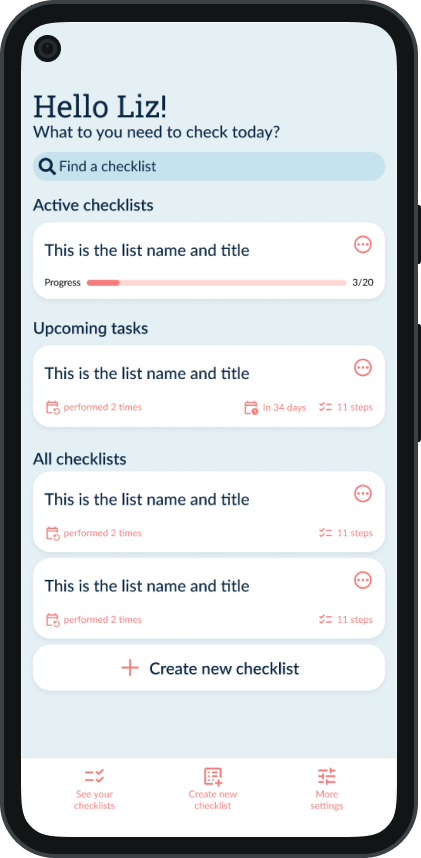
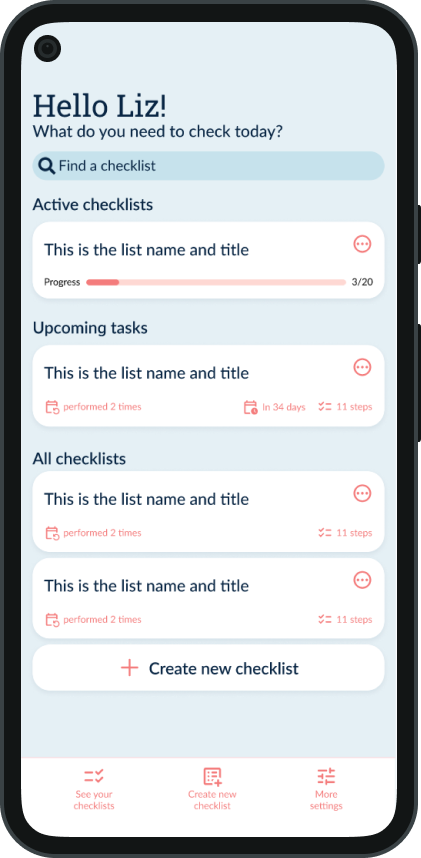
cleaned up navbar, fixed a few typos

diff --git a/index.html b/index.html
@@ -26,33 +26,37 @@
   </head>
   <body>
     <header>
-      <h2 class="logo"><a href="#greeting-card">Åsmund</a></h2>
-      <nav class="navbar">
-        <ul>
-          <li class="item"><a href="#about">About</a></li>
-          <li class="item"><a href="#projects">Projects</a></li>
-          <li class="item"><a href="#contact">Contact</a></li>
-        </ul>
-      </nav>
-      <div class="toggle">
-        <i class="fa-solid fa-layer-group"></i>
-        <label class="switch">
-          <input
-            type="checkbox"
-            id="toggleDusk"
-            onclick="toggleDusk()"
-            checked
-          />
-          <span class="slider"></span>
-        </label>
-        <i class="fa-solid fa-mountain-sun"></i>
+      <div class="header-flexcontainer1">
+        <h2 class="logo"><a href="#greeting-card">Åsmund</a></h2>
       </div>
-      <button
-        class="hamburger"
-        onclick="toggleMenu()"
-      >
-        <i class="fa fa-bars"></i>
-      </button>
+      <div class="header-flexcontainer2">
+        <nav class="navbar">
+          <ul>
+            <li class="item"><a href="#about">About</a></li>
+            <li class="item"><a href="#projects">Projects</a></li>
+            <li class="item"><a href="#contact">Contact</a></li>
+          </ul>
+        </nav>
+        <div class="toggle">
+          <i class="fa-solid fa-layer-group"></i>
+          <label class="switch">
+            <input
+              type="checkbox"
+              id="toggleDusk"
+              onclick="toggleDusk()"
+              checked
+            />
+            <span class="slider"></span>
+          </label>
+          <i class="fa-solid fa-mountain-sun"></i>
+        </div>
+        <button
+          class="hamburger"
+          onclick="toggleMenu()"
+        >
+          <i class="fa-solid fa-bars"></i>
+        </button>
+      </div>
     </header>
     <div id="parallax-container">
       <div
@@ -180,7 +184,7 @@
         <div class="project-details">
           <h2>UI checklist app</h2>
           <p>
-            figma prototype of an app in progress. More than just a to-do list.
+            Figma prototype of an app in progress. More than just a to-do list.
             When complex tasks needs to be repeated and logged, you need a
             checklist. Friendly, approachable design lightens a boring task.
             <br />

diff --git a/style/style.css b/style/style.css
@@ -79,7 +79,17 @@ header {
   display: flex;
   justify-content: space-between;
   align-items: center;
-  z-index: 601;
+  z-index: 101;
+}
+
+.header-flexcontainer1 {
+  display: block;
+}
+
+.header-flexcontainer2 {
+  display: flex;
+  justify-content: space-between;
+  gap: 1rem;
 }
 
 .logo {
@@ -121,24 +131,29 @@ header {
   background: none;
   border: none;
   color: #fff7f2;
-  display: none;
   cursor: pointer;
+  z-index: 102;
+  font-size: 1.4rem;
 }
 
 @media (max-width: 768px) {
+  header {
+    padding: 0.4rem 1rem;
+  }
   .hamburger {
     display: block;
   }
   .navbar ul {
     position: absolute;
     top: 100%;
-    left: 70%;
+    left: 65%;
     display: none;
     flex-direction: column;
     width: 100%;
     background-color: #ff889c;
     border-radius: 20px;
     padding: 1rem 0.2rem;
+    box-shadow: 0px 2px 2px #13096e29;
   }
 
   .navbar ul.active {
